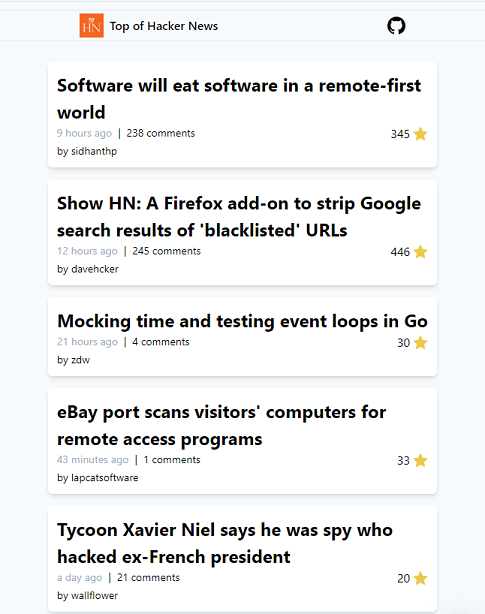
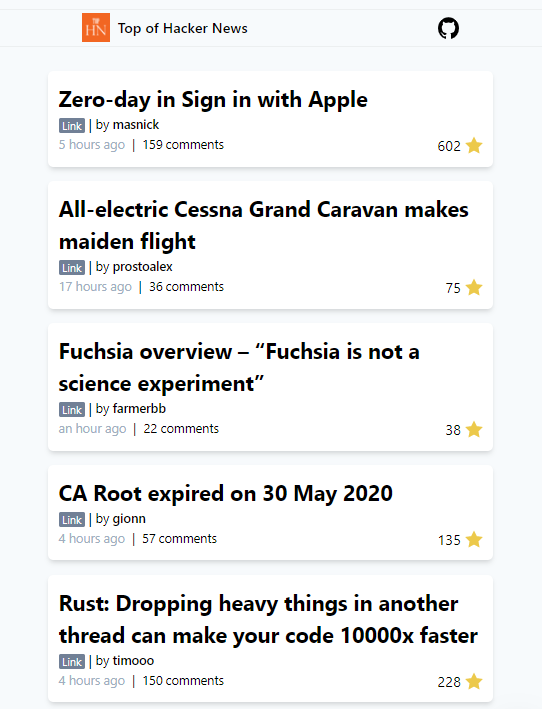
Add some UI enhancement

diff --git a/pages/_app.tsx b/pages/_app.tsx
@@ -18,7 +18,7 @@ export default class MyApp extends App {
 
                   <img
                     className="h-8 mr-2"
-                    src="./logo-top-hn.png"
+                    src="favicons/favicon-32x32.png"
                     alt="logo"
                   />
                   <span className="font-semibold">
@@ -31,12 +31,13 @@ export default class MyApp extends App {
               className="ml-5"
               href="https://github.com/melbarch/next-hn"
               target="_blank"
-              rel="noopener"
+              rel="noreferrer noopener"
             >
               <svg
                 className="h-6"
                 viewBox="0 0 128 128"
                 xmlns="http://www.w3.org/2000/svg"
+                aria-label="github-logo"
               >
                 <g clipRule="evenodd">
                   <path fill="none" d="M0 0h128v128H0z" />
@@ -49,7 +50,7 @@ export default class MyApp extends App {
           <Component {...pageProps} />
 
           <footer className="text-center mt-3 mb-5 bg-gray-100 shadow-xs p-1">
-            Made with ❤ by <a href="https://twitter.com/melbarchany" rel="noopener" target="_blank" className="cursor-pointer underline">@melbarchany</a>
+            Made with ❤ by <a href="https://twitter.com/melbarchany" rel="noreferrer noopener" target="_blank" className="cursor-pointer underline">@melbarchany</a>
           </footer>
 
         </div>

diff --git a/components/PostCard.tsx b/components/PostCard.tsx
@@ -72,12 +72,15 @@ const PostCard = ({ id, postType, url, domain, title, publishedDate, points, use
           </h3>
         </a>
       </div>
-      <span className="flex justify-between" >
+      <div className="flex items-center">
+        <div>{getIcon(iconType)}</div>|
+        <h5 className="text-black-500 text-sm ml-1">by <span className="font-semibold">{user}</span></h5>
+      </div>
+      <div className="flex justify-between" >
         <div className="flex text-sm">
-          <div className="mr-2">{getIcon(iconType)}</div> |
-          <h5 className="text-gray-500 mx-2">{publishedDate}</h5> |
+          <h5 className="text-gray-500 mr-2">{publishedDate}</h5> |
           <h5 className="text-black-500 mx-2 hover:underline">
-            <a href={"https://news.ycombinator.com/item?id=" + id} target="_blank" rel="noopener">
+            <a href={"https://news.ycombinator.com/item?id=" + id} target="_blank" rel="noreferrer noopener">
               {commentsCount} comments
             </a>
           </h5>
@@ -90,8 +93,7 @@ const PostCard = ({ id, postType, url, domain, title, publishedDate, points, use
             </svg>
           </span>
         </span>
-      </span>
-      <h5 className="text-black-500 text-sm">by <span className="font-semibold">{user}</span></h5>
+      </div>
     </div>
   )
 };

diff --git a/components/SEO.tsx b/components/SEO.tsx
@@ -66,7 +66,7 @@ const SEO = () => {
       <meta name="msapplication-TileColor" content="#ffffff" />
       <meta name="msapplication-TileImage" content="favicons/ms-icon-144x144.png" />
       <meta name='msapplication-config' content='browserconfig.xml' />
-      <meta name='theme-color' content='#000000' />
+      <meta name='theme-color' content='#f26622' />
     </Head>
   )
 };

diff --git a/README.md b/README.md
@@ -5,19 +5,17 @@
 <img src="./screenshot.png"/>
 </div>
 
-Made with :
-- Nextjs
-- Tailwindcss
-- SWR
-- and Deployed on Vercel, check it out 👉 https://hn.melbarch.com/
+Some features :
+- Built with [Next.Js](https://nextjs.org/) for a great dev experience ⚡
+- ✔ Typescript to ensure the highest code quality 
+- 💅 styled with [tailwindcss](https://tailwindcss.com/)
+- Data fetched with [SWR](https://swr.now.sh/) from the [amazing API](https://github.com/cheeaun/node-hnapi/) of @cheeaun
+- Supports PWA 💯 (desktop & mobile)
+- Continuous deployment on [Vercel](https://vercel.co/), check it out 👉 https://hn.melbarch.com/
 
-TODO :
-- [ ] PWA support
-- [ ] Enhance lighthouse score
 
-Made live on twitter, check out the [thread here](https://twitter.com/melbarchany/status/1264239873696940033)
+Made live on twitter 👉 check out the [thread here](https://twitter.com/melbarchany/status/1264239873696940033)
 
-Data is fetched from the [amazing API](https://github.com/cheeaun/node-hnapi/) of @cheeaun
 
 ## License
 
